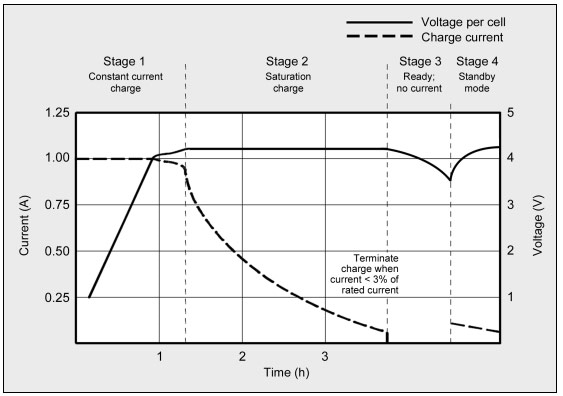
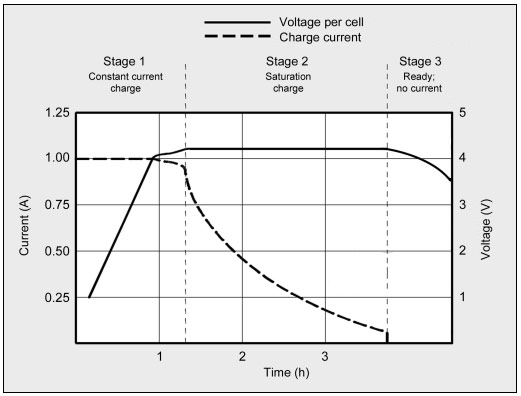
opdates

diff --git a/section/afs_udvikling_diskret.tex b/section/afs_udvikling_diskret.tex
@@ -220,7 +220,7 @@ I den diskret udviklede batteripakke, indgår der ikke nogle tiltag hvori en sta
 Microcontrolleren har flere stadier af power-down modes, men siden PWM output ikke er tilgængeligt under disse modes, og da PWM bliver brugt til at styre MOSFET's til op- og afladningskontrol, er det blevet fravalgt at implementere dette. 
 
 \section{Delkonklusion}
-Igennem udviklingen af batteripakken uden brug af en integreret styringskreds, er alle funktionaliteter blevet realiseret. Batteripakken at aflades med $6\ampere$ og oplades med omkring $1\ampere$. Der er ikke udviklet en buck converter til at begrænse opladestrømmen, så for at oplade batteripakken, skal opladeren stå for strømbegrænsningen.
+Igennem udviklingen af batteripakken uden brug af en integreret styringskreds, er alle funktionaliteter blevet realiseret. Batteripakken at aflades med $6\ampere$ og oplades med $1\ampere$. Der er ikke udviklet en buck converter til at begrænse opladestrømmen, så for at oplade batteripakken, skal opladeren stå for strømbegrænsningen.
 \\
 
 Batteripakken kan til hver en tid lave målinger på cellespænding og strømtræk, hvor den også kan detektere om en belastning eller oplader er koblet på udgangen. Der er derudover også realiseret en løsning til passiv balancering.

diff --git a/section/afs_funktionaliteter.tex b/section/afs_funktionaliteter.tex
@@ -32,7 +32,8 @@ Temperaturforskelle i en batteripakke og dermed forskelle på celletemperature k
 \FloatBlock
 
 I batteripakker hvor flere celler indgår, vil forskelle på stærke og svage celler forstørres for hver cyklus. Under opladning kan en svag celle blive svagere indtil den fejler, hvilket kan forsage permanent skade på hele batteripakken. Da en batteripakkes levetid afhænger af den svageste celle, vil en forøgelse i levetid kunne opnås ved hjælp af cellebalancering, da slid på den svageste celle minimeres. Opladning af en Li-Ion celle foregår i tre faser og er skitseret på figur \ref{fig:opladning_liion}.
-\sbf{Fase 4 skal fjernes da vi ikke har det med}
+\\
+
 Under den første fase oplades cellerne med en konstant strøm, hvor spændingen stiger lineært. Det er i denne fase hvor størstedelen af cellen bliver ladt op.
 \\
 

diff --git a/section/underskrift.tex b/section/underskrift.tex
@@ -1,6 +1,6 @@
 
 \section*{Underskrifter}
-\vspace{3ex} \hfill Underskrevet d. 21/12-2018\\
+\vspace{3ex} \hfill Underskrevet d. 30/12-2018\\
 
 \newlength{\streg} \setlength{\streg}{0.49\linewidth}
 

diff --git a/rapport.tex b/rapport.tex
@@ -19,7 +19,7 @@
 \null
 \vfill
 \begin{center}
-\emph{Det kan godt være den er lille... Men den lugter!}
+\emph{Mojn i æ boks!}
 \end{center}
 \newpage
 \thispagestyle{empty}
